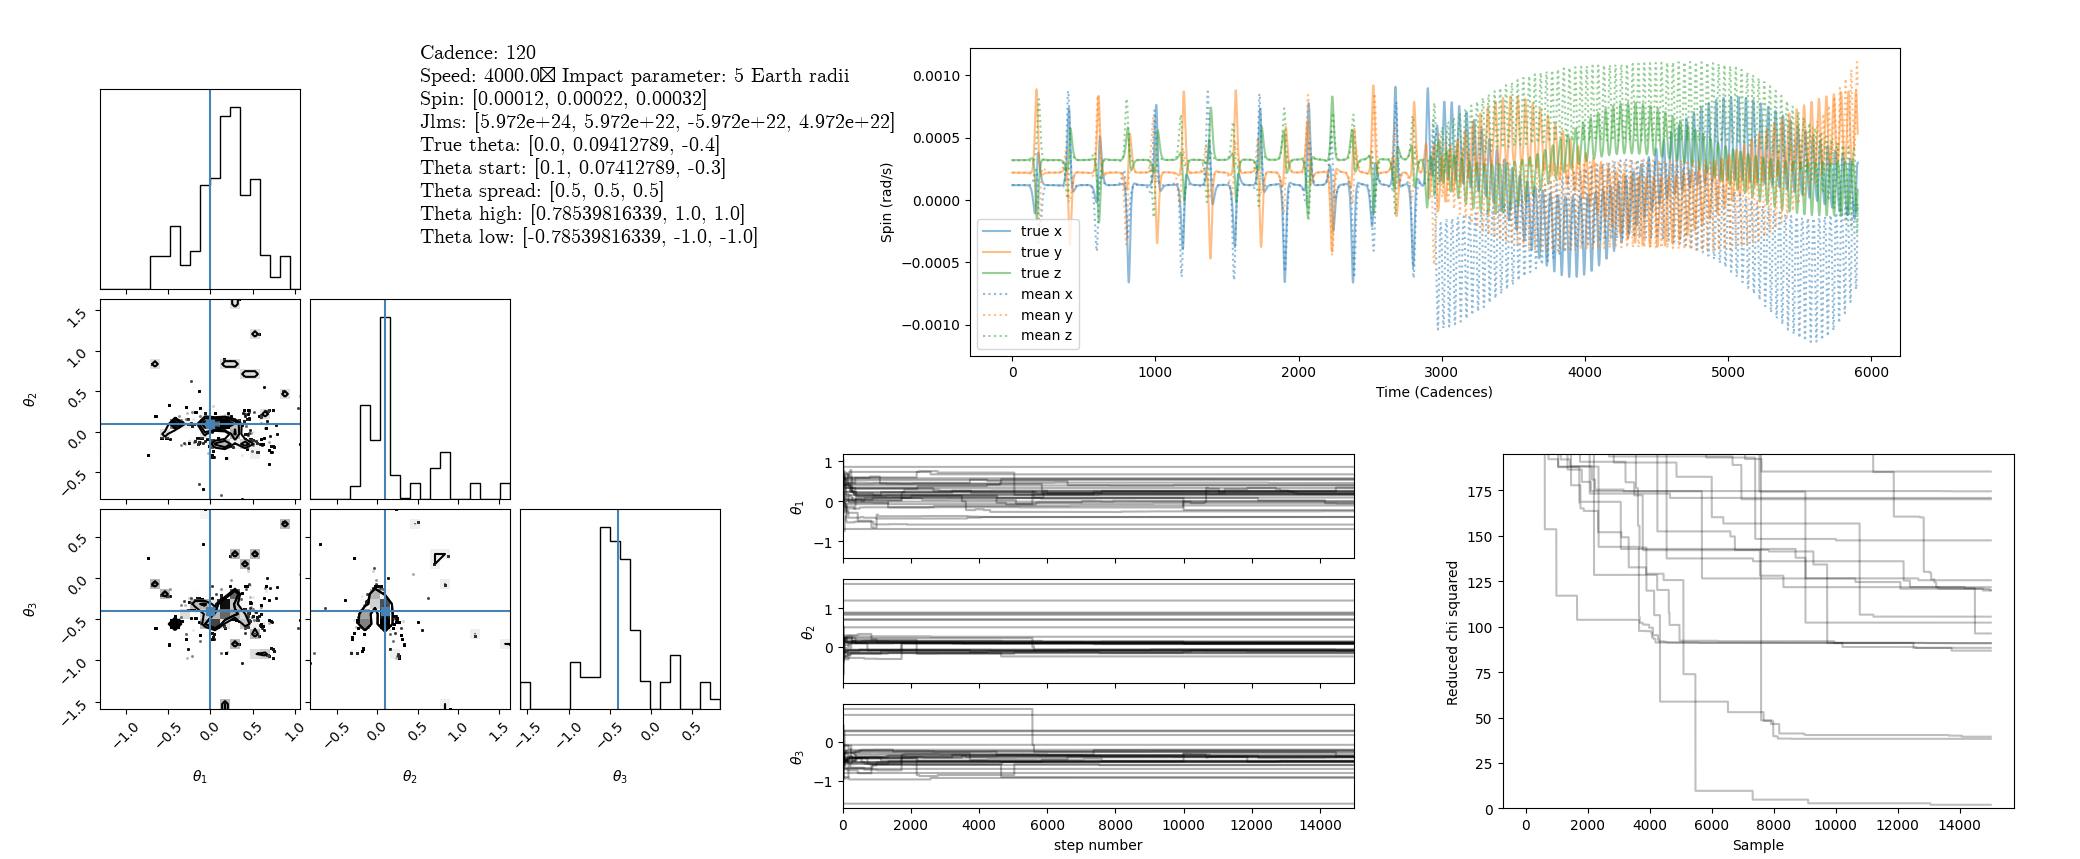
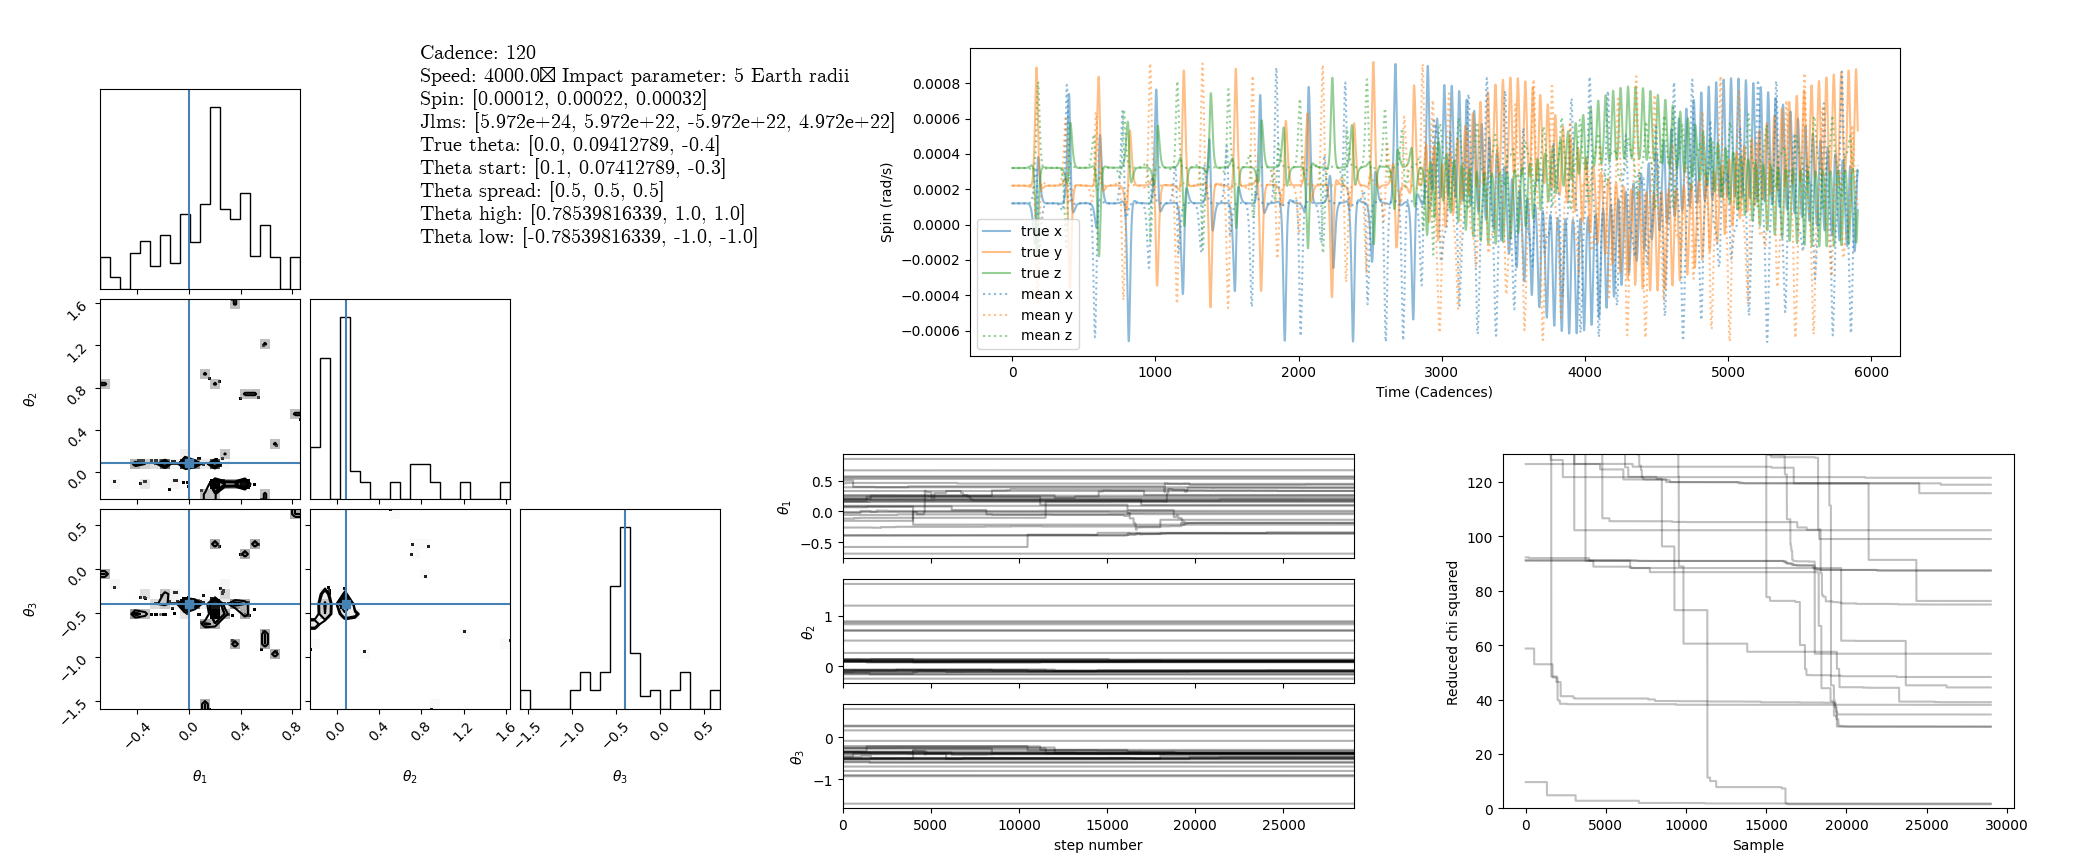
Staged comprehensive fit

diff --git a/code/fit_resolved/fit.py b/code/fit_resolved/fit.py
@@ -8,7 +8,7 @@ from random_vector import *
 ASTEROIDS_MAX_K = 2 # Remember to change the counterpart in backend.hpp
 EARTH_RADIUS = 6370000
 N_WALKERS = 32
-MAX_N_STEPS = 20000
+MAX_N_STEPS = 50000
 
 if len(sys.argv) not in [2, 3]:
     raise Exception("Please pass a file to describe the fit")

diff --git a/data/converge/readme.md b/data/converge/readme.md
@@ -21,3 +21,7 @@ I'm going to rerun August 9, this time with reloading possible. Runs 0.* fit all
 ## August 18
 
 It seems as though sigma controls the speed of convergence. I'm rerunning 0.1 and 0.2 which are the only fits that didn't converge and which I think have a chance of doing so. I'm also fitting runs 2.*, which fix one parameter and fit two.
+
+## August 20
+
+It seems hardest to fit to theta 2, possibly because it's the smallest compared to its sigma. So I'm shortening sigma and running a very long fit in preparation for vacation as 3.*. It fixes zero, one, and two parameters.
